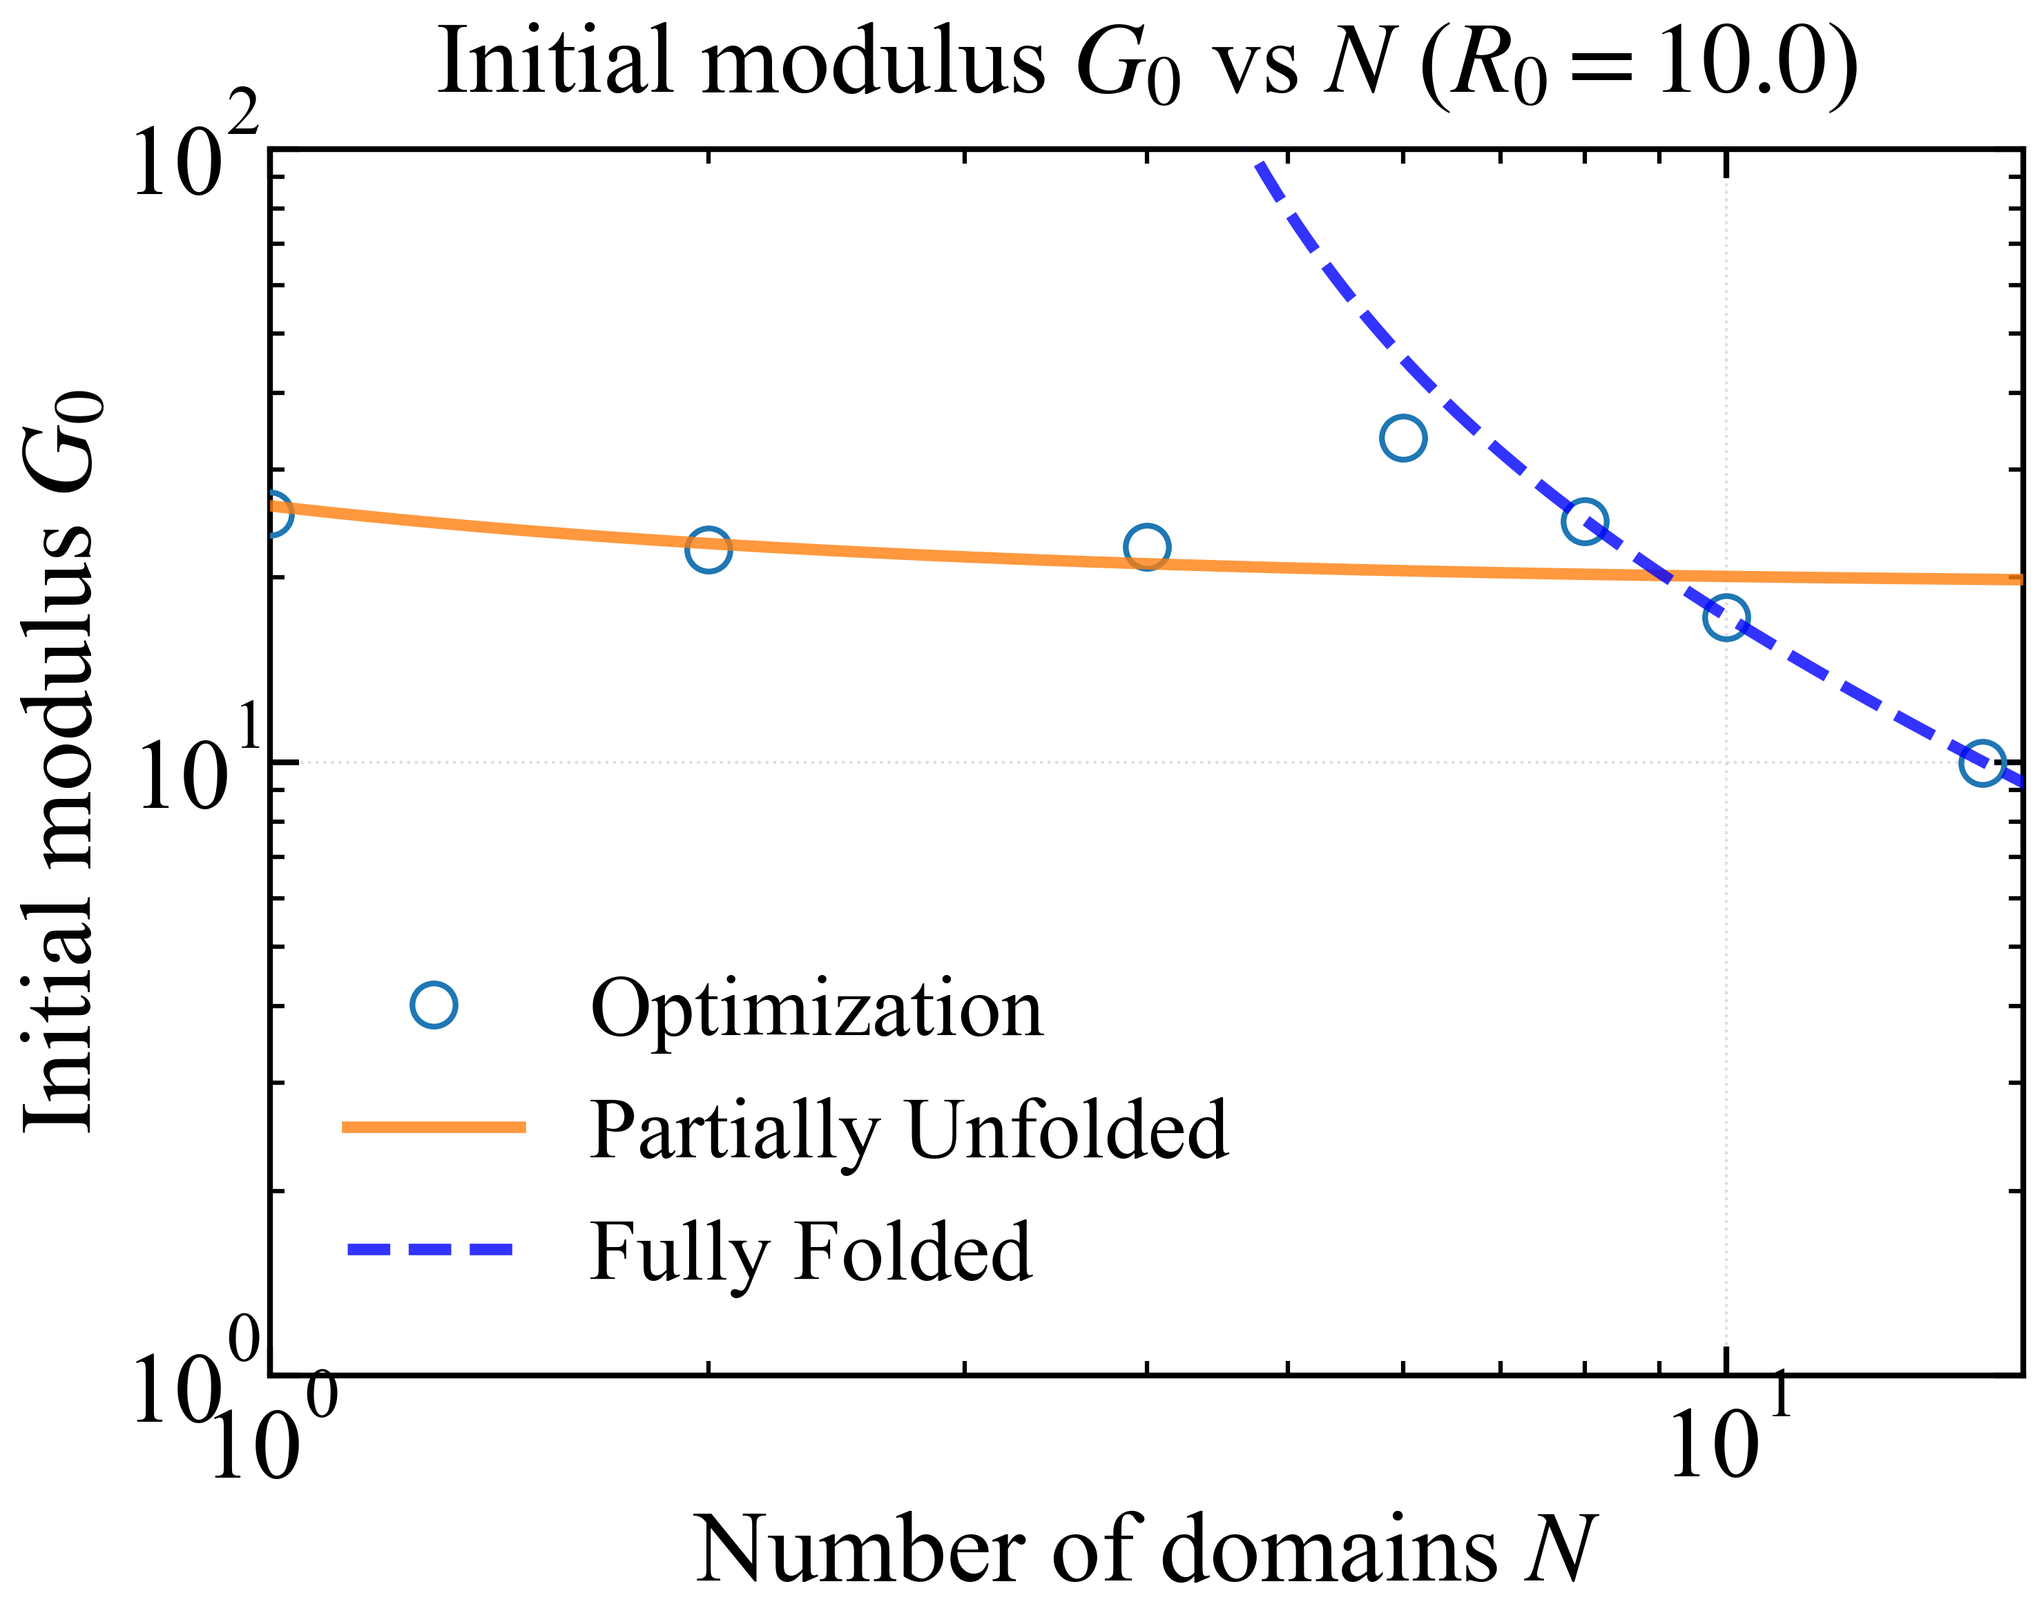
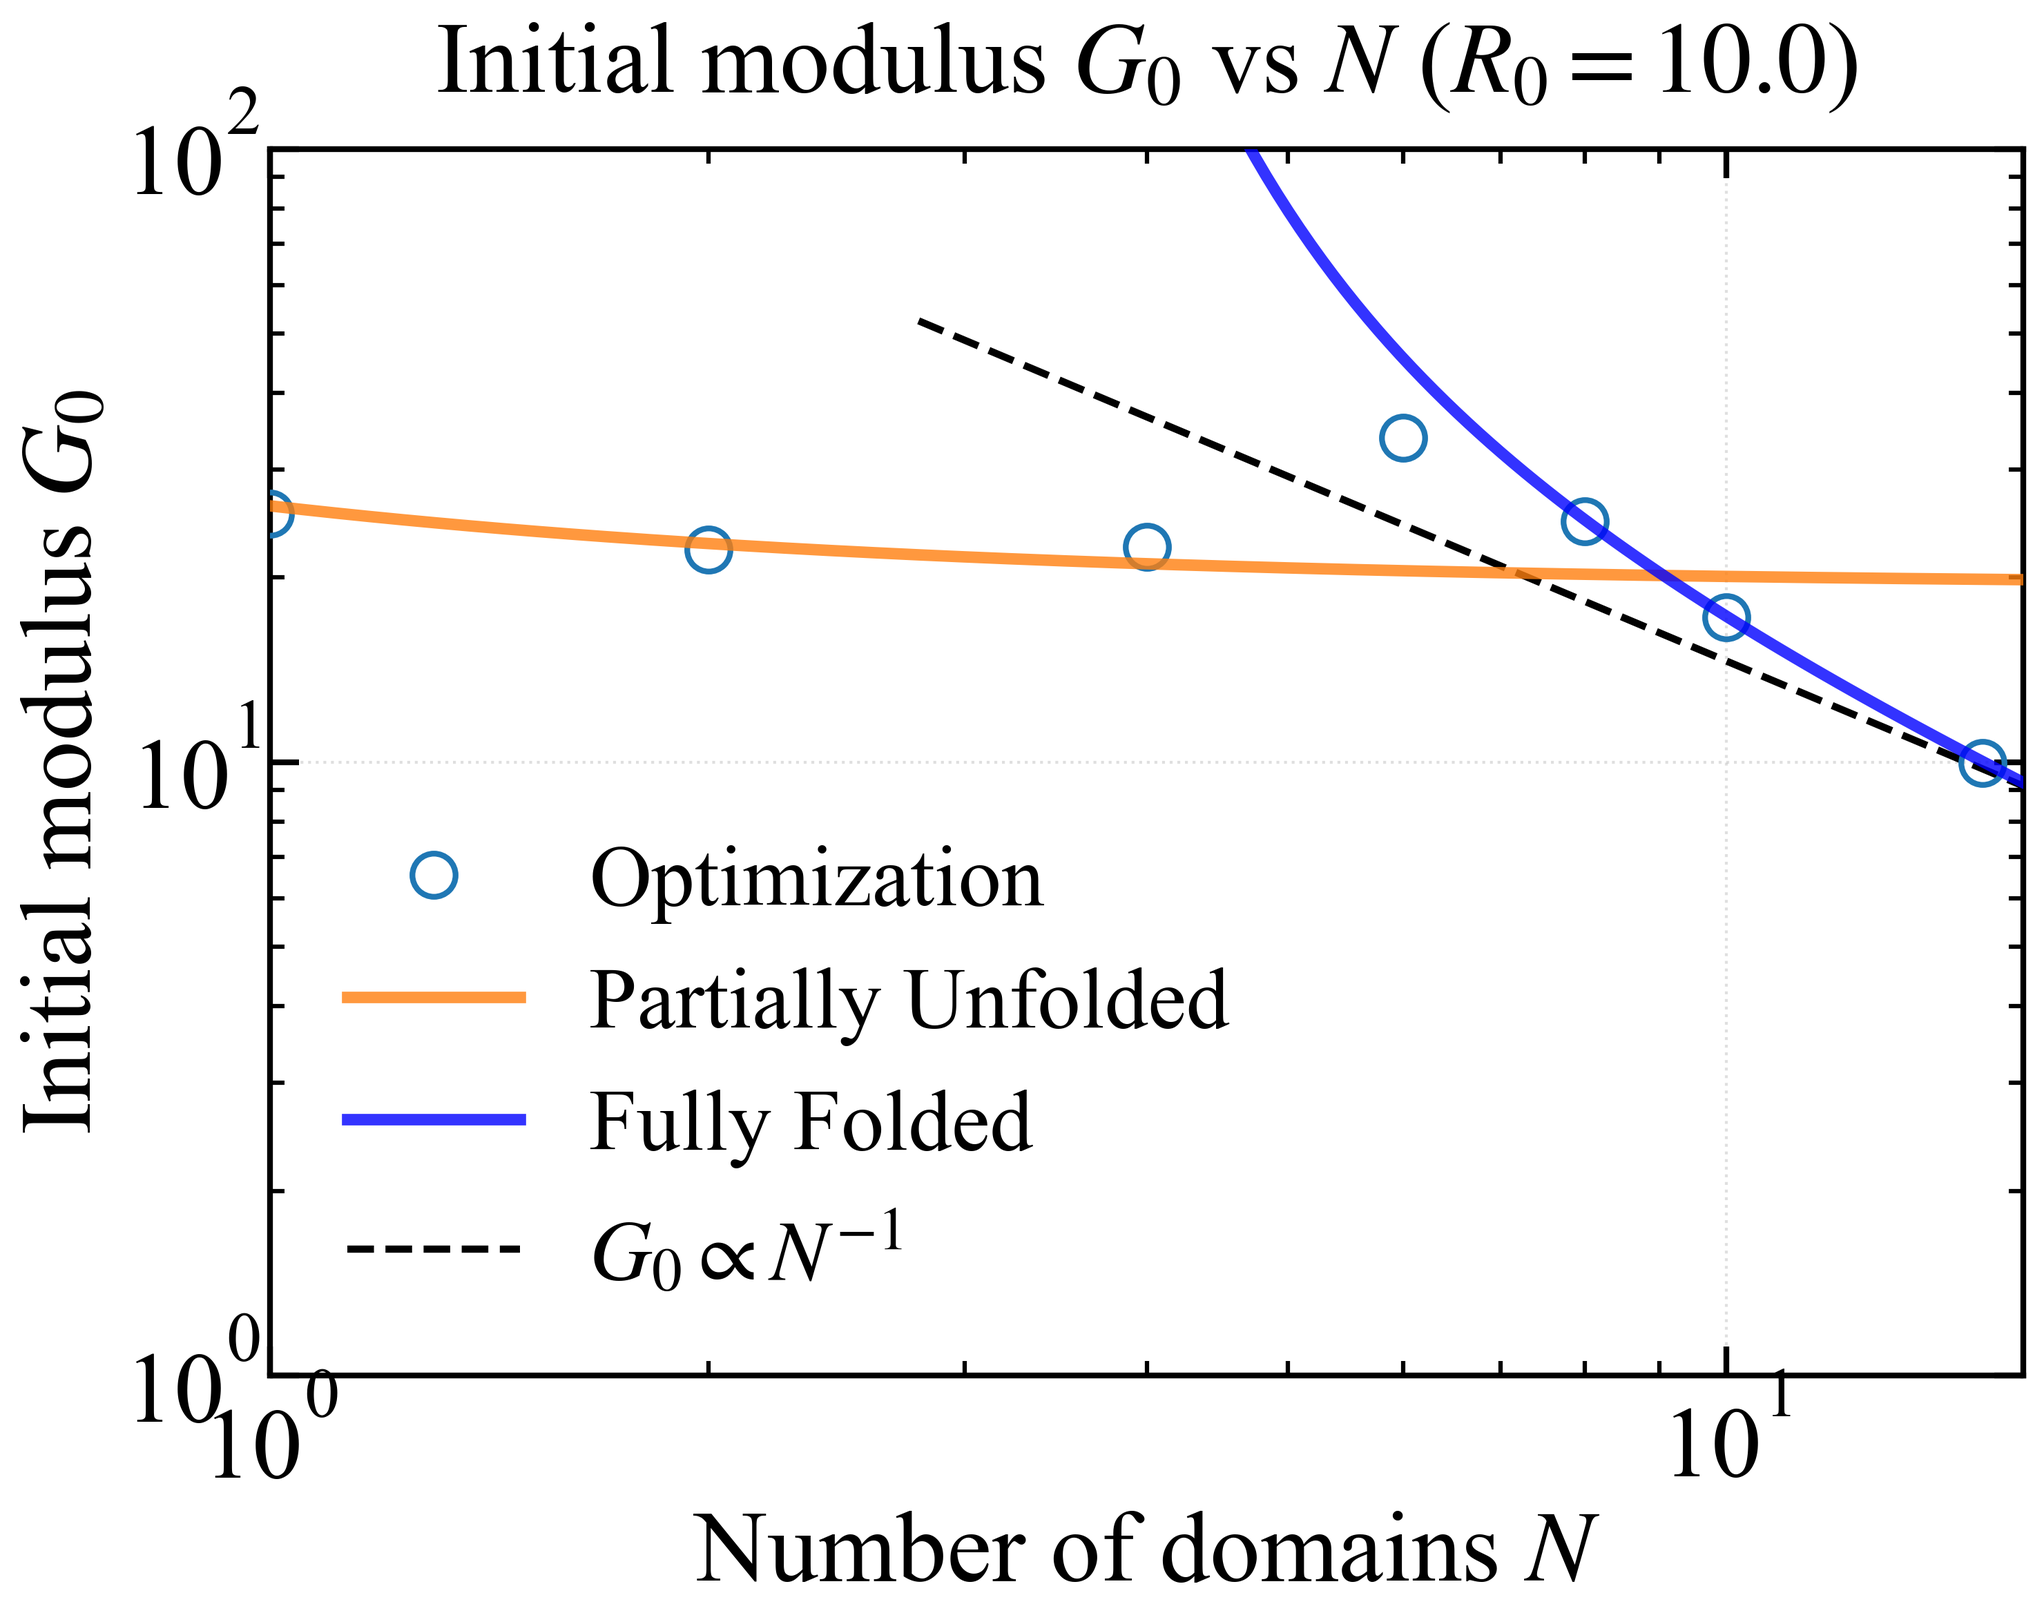
New changes

diff --git a/GB1_results/Networks_results/R0_N0.5/G0_N.py b/GB1_results/Networks_results/R0_N0.5/G0_N.py
@@ -6,6 +6,7 @@ R0与N存在关系 R0 = kR * N**0.5
 import numpy as np
 import matplotlib.pyplot as plt
 import matplotlib.font_manager as fm
+import matplotlib.ticker as ticker
 import os
 from scipy.optimize import brentq
 
@@ -85,8 +86,8 @@ k2 = 1.5
 kR = 2.68           # 初始首末端距离 R0 = kR * N**0.5
 
 N_Area2_fixed = 8.0    # 部分解折叠模型中固定使用的 N
-N_vals = np.linspace(1.0, 10.0, 10)  # 数值优化离散点
-Rtheo_points = 200
+N_vals = np.linspace(1.0, 100.0, 50)  # 数值优化离散点
+Rtheo_points = 500
 
 # ===================== 基础物理函数 =====================
 def Lc(f, N):
@@ -150,7 +151,7 @@ def calculate_G0_area1(R0, N):
     L_c = N * xi_f
     x0 = R0 / L_c
     if x0 >= 1: 
-        return 0
+        return np.inf
     
     term1 = x0 / (2 * (1 - x0)**3)
     term2 = 1 / (4 * (1 - x0)**2)
@@ -286,41 +287,77 @@ def calculate_InitModulus_area2(R0, N):
     return G0
 
 # ===================== 可视化函数 =====================
-def plot_G0_vs_N_area1(N_vals, kR=0.5, save_dir=None):
+def plot_G0_vs_N_area1(N_vals, kR, save_dir=None):
     """
     绘制第一种情况 (完全折叠) G₀ 随 N 变化
     由于 R0 与 N 存在绑定关系（R0=kR*sqrt(N)），横轴改为 N
     """
+    # ---------- 【新增】计算渐近展开的常数项 C ----------
+    # 根据您提供的公式：C = 9 * kR^2 / (2*xi_f)
+    const_term = 9 * kR**2 / (2*xi_f)
+    # ----------------------------------------------------
     
     # 根据 N_vals 列表计算相应的 R0 列表
     R0_val = [kR * n**0.5 for n in N_vals]
     G0_val = [initial_modulus_num(r0, n) for r0, n in zip(R0_val, N_vals)]
     
+    # ---------- 【新增】减去常数项 ----------
+    G0_val_shifted = [g - const_term for g in G0_val]
+    # -------------------------------------
+
     fig, ax = plt.subplots(figsize=(10, 8))
-    ax.set_xscale('linear')
-    ax.set_yscale('linear')
+    ax.set_xscale('log')
+    ax.set_yscale('log')
     
-    # 数值优化解
-    ax.plot(N_vals, G0_val, 'o', markerfacecolor='none', label='Optimization', markeredgewidth=2, markersize=15, zorder=4)
+    # 数值优化解（使用平移后的数据）
+    ax.plot(N_vals, G0_val_shifted, 'o', markerfacecolor='none', label='Optimization', markeredgewidth=2, markersize=15, zorder=4)
     
     # 理论解析解
-    # 【核心修正】因为横坐标是 N，我们需要生成连续的 N_theo 作为 x 轴
-    # 并通过 R0 = kR * sqrt(N) 求出对应的 R0 传入理论公式
-    N_theo = np.linspace(0.5, 10.5, Rtheo_points)
+    N_theo = np.linspace(0.5, N_vals[-1], Rtheo_points)
     G0_theo = [calculate_G0_area1(kR * np.sqrt(N), N) for N in N_theo]
+    # ---------- 【新增】理论解也减去常数项 ----------
+    G0_theo_shifted = [g - const_term for g in G0_theo]
+    # ---------------------------------------------
     
-    ax.plot(N_theo, G0_theo, '-', linewidth=lines_linewidth, label='Theoretical', alpha=0.8, zorder=5)
+    ax.plot(N_theo, G0_theo_shifted, '-', color='blue', linewidth=lines_linewidth, label='Theoretical', alpha=0.8, zorder=5)
 
+    # ---------- 【新增】参考线 N^(-0.5)，与实验数据右端对齐 ----------
+    # 取右端点（N最大处）的平移后实验数据值
+    N_end = N_vals[-1]
+    G_end = G0_val_shifted[-1]
+    # 计算参考线的比例系数 m，使得 m * N_end^(-0.5) = G_end
+    m = G_end * (N_end ** 0.5)
+    # 生成参考线横坐标（覆盖实验数据范围）
+    N_ref = np.linspace(N_vals[0], N_vals[-1], 50)
+    G_ref = m * (N_ref ** (-0.5))
+    ax.plot(N_ref, G_ref, '--', color='black', linewidth=2.5, label=r'$G_0 - G_{00} \propto N^{-1/2}$', zorder=3)
+    # -----------------------------------------------------------------
+
+    # 更新 Y 轴标签，明确显示已移除常数项
     ax.set_xlabel('Number of domains $N$', fontsize=label_fontsize)
-    ax.set_ylabel('Initial modulus $G_0$', fontsize=label_fontsize)
-    ax.set_title(f'Initial modulus $G_0$ vs. $N$ ($R_0 = {kR} \\sqrt{{N}}$)', fontsize=title_fontsize, pad=20)
+    ax.set_ylabel('Initial modulus $G_0 - G_{00}$', fontsize=label_fontsize)
+    ax.set_title(f'Shifted Initial modulus vs. $N$ ($R_0 = {kR} \\sqrt{{N}}$)', fontsize=title_fontsize, pad=20)
     ax.grid(True, alpha=grid_alpha, linestyle=':', linewidth=grid_linewidth)
     ax.legend(fontsize=legend_fontsize, framealpha=0.9, edgecolor='none', loc='best')
     
-    ax.set_xlim(0.5, 10.5)
-    ax.set_ylim(0.0, 1.0)
-    ax.tick_params(axis='both', which='major', direction=xtick_direction, top=xtick_top, right=ytick_right)
-    ax.minorticks_on()
+    ax.set_xlim(1.0, N_vals[-1])
+    ax.set_ylim(0.0, 100.0)
+    # ---------------------------------------------
+    
+    ax.xaxis.set_major_locator(ticker.LogLocator(base=10.0, numticks=12)) # 强制显示主要刻度
+    ax.xaxis.set_major_formatter(ticker.ScalarFormatter()) # 显示 1, 2, 3, ..., 10
+    ax.xaxis.set_minor_formatter(ticker.NullFormatter())   # 隐藏次刻度的数字
+    
+    # ---------- 【修改】显式设置横轴主/次刻度长度 ----------
+    ax.minorticks_on()  # 开启次刻度
+    # 主刻度长度设为 6，次刻度长度设为 3（恰好为主刻度一半）
+    ax.tick_params(axis='x', which='major', length=6, direction=xtick_direction, top=xtick_top)
+    ax.tick_params(axis='x', which='minor', length=4, width=xtick_major_width, direction=xtick_direction, top=xtick_top)
+    # 同时保留 y 轴原有的主刻度设置（不改变其长度）
+    ax.tick_params(axis='y', which='major', width=ytick_major_width, direction=xtick_direction, right=ytick_right)
+    ax.tick_params(axis='y', which='minor', length=4, width=ytick_major_width, direction=xtick_direction, top=xtick_top)
+    # ----------------------------------------------------
+
     for spine in ax.spines.values(): spine.set_linewidth(axes_linewidth)
     plt.tight_layout()
     
@@ -331,33 +368,35 @@ def plot_G0_vs_N_area1(N_vals, kR=0.5, save_dir=None):
         print(f"Area1 曲线已保存至: {path}")
 
 # ===================== 修改后的绘图函数 =====================
-def plot_G0_vs_N_area2(N_vals, kR=2.68, save_dir=None):
+def plot_G0_vs_N_area2(N_vals, kR, save_dir=None):
     """
     绘制第二种情况 (部分解折叠) G₀ 随 N 变化
     横轴改为 N，与 plot_G0_vs_N_area1 保持一致，并将 Area 1 理论解以蓝实线绘制在同一张图上
     """
     
     # 根据 N_vals 列表计算相应的 R0 列表
-    # R0_val = [kR * n**0.5 for n in N_vals]
-    R0_val = [R0ms(n) for n in N_vals]
+    R0_val = [kR * n**0.5 for n in N_vals]
+    # R0_val = [R0ms(n) for n in N_vals]
     G0_val = [initial_modulus_num(r0, n) for r0, n in zip(R0_val, N_vals)]
     
     fig, ax = plt.subplots(figsize=(10, 8))
-    ax.set_xscale('linear')
-    ax.set_yscale('linear')
+    ax.set_xscale('log')
+    ax.set_yscale('log')
     
     # 1. 数值优化解 (Area 2)
     ax.plot(N_vals, G0_val, 'o', markerfacecolor='none', label='Optimization', markeredgewidth=2, markersize=15, zorder=4)
     
     # 生成连续的 N_theo 作为 x 轴
-    N_theo = np.linspace(1.0, 10.5, Rtheo_points)
+    N_theo = np.linspace(1.0, N_vals[-1], Rtheo_points)
 
     # 2. 新增：理论解析解 (Area 1) - 蓝实线
-    G0_theo_area1 = [calculate_G0_area1(R0ms(n), n) for n in N_theo]
+    #G0_theo_area1 = [calculate_G0_area1(R0ms(n), n) for n in N_theo]
+    G0_theo_area1 = [calculate_G0_area1(kR * n**0.5, n) for n in N_theo]
     ax.plot(N_theo, G0_theo_area1, '-', color='blue', linewidth=lines_linewidth, label='Fully Folded', alpha=0.8, zorder=5)
     
     # 3. 理论解析解 (Area 2) - 原图的理论线
-    G0_theo_area2 = [calculate_G0_area2(R0ms(n), n) for n in N_theo]
+    #G0_theo_area2 = [calculate_G0_area2(R0ms(n), n) for n in N_theo]
+    G0_theo_area2 = [calculate_G0_area2(kR * n**0.5, n) for n in N_theo]
     ax.plot(N_theo, G0_theo_area2, '-', color='orange', linewidth=lines_linewidth, label='Partially Unfolded', alpha=0.8, zorder=5)
 
     # G0_theo_critical = [calculate_G0_critical(R0ms(n), n) for n in N_theo]
@@ -366,17 +405,29 @@ def plot_G0_vs_N_area2(N_vals, kR=2.68, save_dir=None):
     # G0_theo_Initial = [calculate_InitModulus_area2(R0ms(n), n) for n in N_theo]
     # ax.plot(N_theo, G0_theo_Initial, '-', color='green', linewidth=lines_linewidth, label='Initial Modulus', alpha=0.8, zorder=5)
 
+
     ax.set_xlabel('Number of domains $N$', fontsize=label_fontsize)
     ax.set_ylabel('Initial modulus $G_0$', fontsize=label_fontsize)
     ax.set_title(f'Initial modulus $G_0$ vs. $N$', fontsize=title_fontsize, pad=20)
     ax.grid(True, alpha=grid_alpha, linestyle=':', linewidth=grid_linewidth)
     ax.legend(fontsize=legend_fontsize, framealpha=0.9, edgecolor='none', loc='best')
     
-    ax.set_xlim(1.0, 10.5)
-    ax.set_ylim(0.0, 20.0) 
+    ax.set_xlim(1.0, N_vals[-1])
+    ax.set_ylim(1.0, 100.0) 
     
-    ax.tick_params(axis='both', which='major', direction=xtick_direction, top=xtick_top, right=ytick_right)
-    ax.minorticks_on()
+    ax.xaxis.set_major_locator(ticker.LogLocator(base=10.0, numticks=12)) # 强制显示主要刻度
+    ax.xaxis.set_major_formatter(ticker.ScalarFormatter()) # 显示 1, 2, 3, ..., 10
+    ax.xaxis.set_minor_formatter(ticker.NullFormatter())   # 隐藏次刻度的数字
+        
+    # ---------- 【修改】显式设置横轴主/次刻度长度 ----------
+    ax.minorticks_on()  # 开启次刻度
+    # 主刻度长度设为 6，次刻度长度设为 3（恰好为主刻度一半）
+    ax.tick_params(axis='x', which='major', length=6, direction=xtick_direction, top=xtick_top)
+    ax.tick_params(axis='x', which='minor', length=4, width=xtick_major_width, direction=xtick_direction, top=xtick_top)
+    # 同时保留 y 轴原有的主刻度设置（不改变其长度）
+    ax.tick_params(axis='y', which='major', width=ytick_major_width, direction=xtick_direction, right=ytick_right)
+    ax.tick_params(axis='y', which='minor', length=4, width=ytick_major_width, direction=xtick_direction, top=xtick_top)
+
     for spine in ax.spines.values(): spine.set_linewidth(axes_linewidth)
     plt.tight_layout()
     
@@ -391,8 +442,8 @@ def main():
     output_dir = '/home/tyt/project/protein_gel/GB1_results/Networks_results/R0_N0.5'
     
     # 绘制基于 R0 = kR*sqrt(N) 的标度律对比 (以 N 为横坐标)
-    plot_G0_vs_N_area1(N_vals, save_dir=output_dir)
-    plot_G0_vs_N_area2(N_vals, save_dir=output_dir)
+    plot_G0_vs_N_area1(N_vals, kR, save_dir=output_dir)
+    plot_G0_vs_N_area2(N_vals, kR, save_dir=output_dir)
 
 if __name__ == "__main__":
     main()

diff --git a/GB1_results/Networks_results/R0_Constant/G0_R0.py b/GB1_results/Networks_results/R0_Constant/G0_R0.py
@@ -241,17 +241,18 @@ def plot_G0_vs_R0_area2(R0_val, save_dir=None):
             R0_theo_filtered.append(r0)
             G0_theo_area1_compare.append(calculate_G0_area1(r0, N_Area2))
     
-    ax.plot(R0_theo_filtered, G0_theo_area1_compare, '--b', linewidth=lines_linewidth, 
+    ax.plot(R0_theo_filtered, G0_theo_area1_compare, '-b', linewidth=lines_linewidth, 
             label='Fully Folded', alpha=0.8, zorder=5)
     # --------------------------------------------------------------------------------------
 
-    # 标度参考线 G0 ∝ R0²，改为与右端点对齐
-    #start_R0 = float(R0_theo[0])
-    #end_R0 = float(R0_theo[-1])
-    #end_G0 = float(G0_theo[-1])
-    #ref_x = [start_R0, end_R0]
-    #ref_y = [end_G0 * (start_R0 / end_R0)**2, end_G0]
-    #ax.plot(ref_x, ref_y, '--', color='#666666', linewidth=2.5, label=r'$G_0 \propto R_0^2$', zorder=3)
+    # 标度参考线 G0 ∝ R0²，与蓝线左端点对齐
+    start_R0 = float(R0_theo_filtered[0])
+    #end_R0 = float(R0_theo_filtered[-1])
+    end_R0 = 10.0
+    start_G0 = float(G0_theo_area1_compare[0])
+    ref_x = [start_R0, end_R0]
+    ref_y = [start_G0, start_G0 * (end_R0 / start_R0)**2]
+    ax.plot(ref_x, ref_y, '--', color='black', linewidth=2.5, label=r'$G_0 \propto R_0^2$', zorder=3)
 
     ax.set_xlabel('Initial end-to-end distance $R_0$', fontsize=label_fontsize)
     ax.set_ylabel('Initial modulus $G_0$', fontsize=label_fontsize)

diff --git a/GB1_results/Networks_results/R0_Constant/G0_N.py b/GB1_results/Networks_results/R0_Constant/G0_N.py
@@ -284,14 +284,14 @@ def plot_G0_vs_N_area2(N_val, save_dir=None):
             N_theo_filtered.append(n)
             G0_theo_area1_compare.append(calculate_G0_area1(R0, n))
     
-    ax.plot(N_theo_filtered, G0_theo_area1_compare, '--b', linewidth=lines_linewidth, 
+    ax.plot(N_theo_filtered, G0_theo_area1_compare, '-b', linewidth=lines_linewidth, 
             label='Fully Folded', alpha=0.8, zorder=5)
     # ----------------------------------------------------------------------------
 
     # 参考线 y ∝ N^(-1)，与右端点对齐
-    # ref_x = [N_theo[0], N_theo[-1]]
-    # ref_y = [G0_theo[-1] * (N_theo[-1] / N_theo[0]), G0_theo[-1]]
-    # ax.plot(ref_x, ref_y, '--', color='#666666', linewidth=2.5, label=r'$G_0 \propto N^{-1}$', zorder=3)
+    ref_x = [N_theo_filtered[0], N_theo_filtered[-1]]
+    ref_y = [G0_theo_area1_compare[-1] * (N_theo_filtered[-1] / N_theo_filtered[0]), G0_theo_area1_compare[-1]]
+    ax.plot(ref_x, ref_y, '--', color='black', linewidth=2.5, label=r'$G_0 \propto N^{-1}$', zorder=3)
 
     ax.set_xlabel('Number of domains $N$', fontsize=label_fontsize)
     ax.set_ylabel('Initial modulus $G_0$', fontsize=label_fontsize)

diff --git a/GB1_results/Networks_results/R0_N0.5/Stress_compare.py b/GB1_results/Networks_results/R0_N0.5/Stress_compare.py
@@ -92,9 +92,9 @@ N_val = [1.0, 2.0, 4.0, 6.0, 8.0, 10.0]   # domain 的数量
 M = 300
 k1 = 6.5
 k2 = 1.48
-kR = 2.68           # 初始首末端距离 R0 = kR * N**0.5
+kR = 5.0           # 初始首末端距离 R0 = kR * N**0.5
 lambda_max = 30.0  # 最大伸长比
-Stress_max = 40.0  # 最大应力值
+Stress_max = 100.0  # 最大应力值
 
 def Lc(f, N):
     """
@@ -233,8 +233,8 @@ def create_visualization(save_dir=None):
     ax1.set_yscale('log')
 
     for idx, N in enumerate(N_val):
-        # R0 = kR * N**0.5
-        R0 = R0ms(N)
+        R0 = kR * N**0.5
+        # R0 = R0ms(N)
         filepath = f"/home/tyt/project/protein_gel/GB1_results/Multi_chains/N_{int(N)}_M_{M}_test_results/average_curves.csv"
         f_val, r_val, n_val = load_average_curve_data(filepath)
         lambda_sim, sigma_sim = StressOptimization(R0, r_val, f_val)
